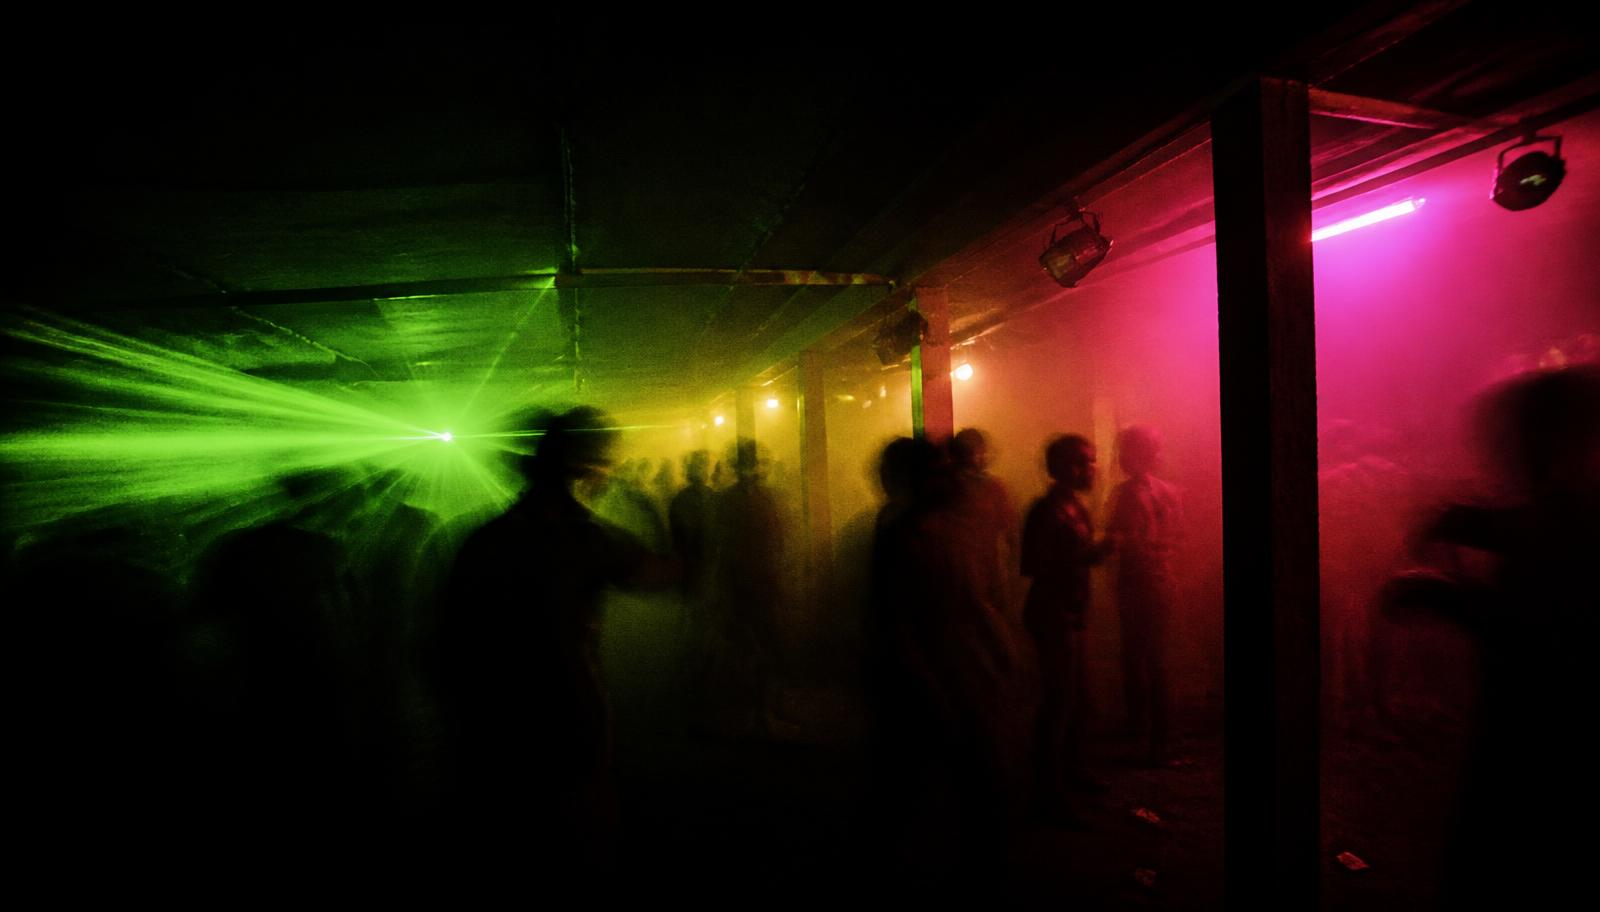
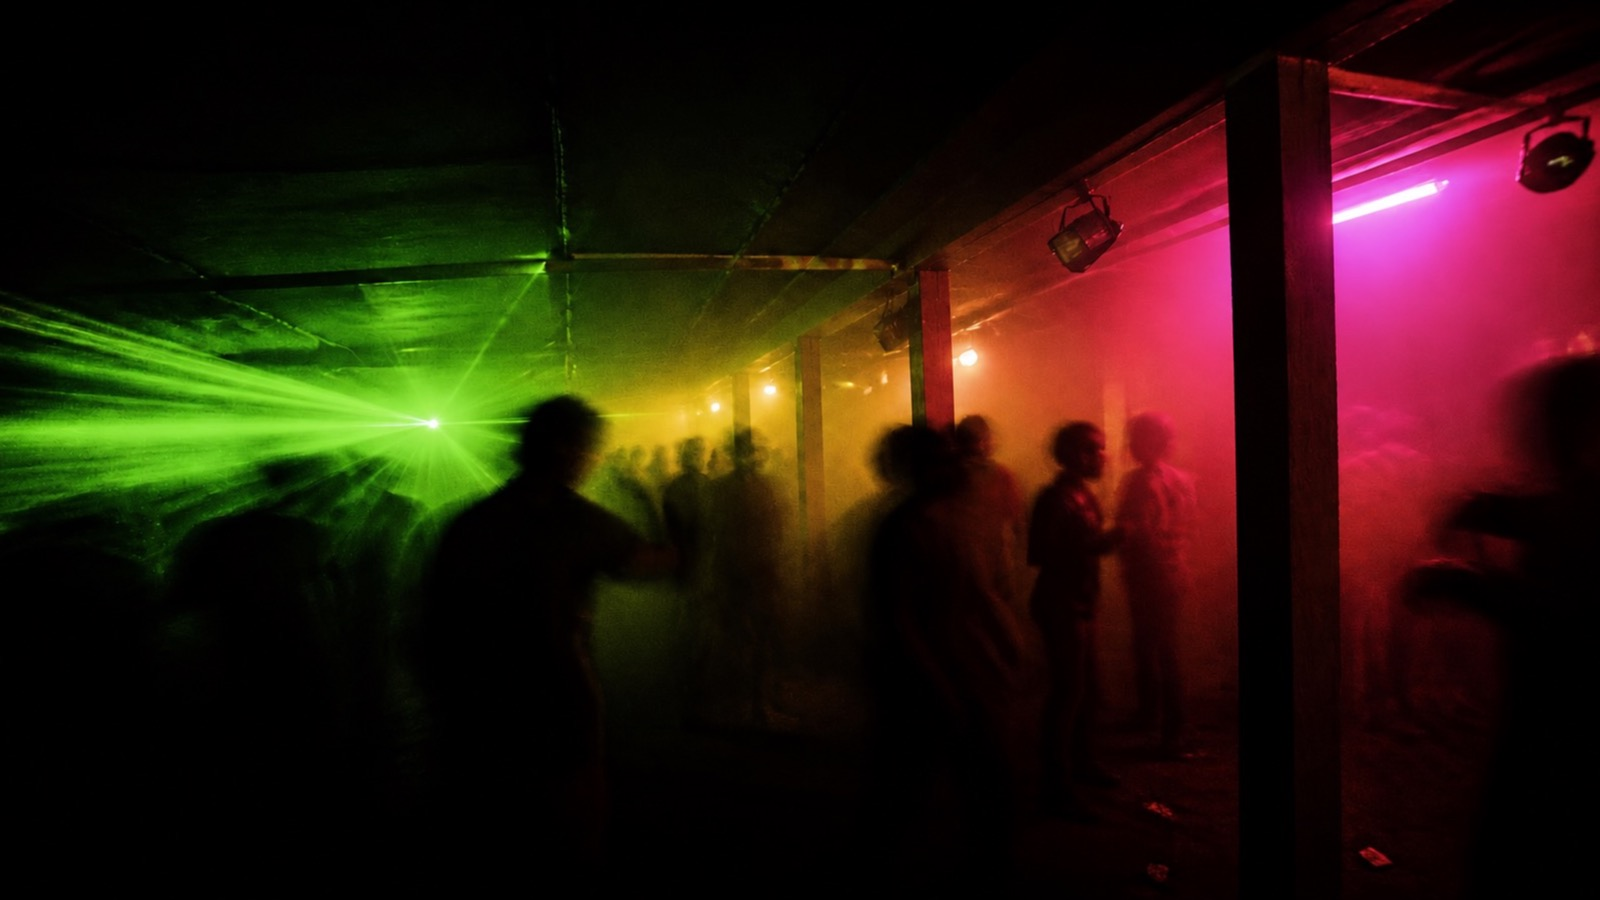
Polish Flowcrate homepage design

diff --git a/src/routes/index.tsx b/src/routes/index.tsx
@@ -7,17 +7,17 @@ import { supabase } from "@/integrations/supabase/client";
 export const Route = createFileRoute("/")({
   head: () => ({
     meta: [
-      { title: "FlowCrate" },
+      { title: "Flowcrate" },
       {
         name: "description",
         content:
-          "FlowCrate is your personal music brain—capture what you discover, organize it by mood, energy, and context, and follow the connections to find what's next.",
+          "Flowcrate is your personal music map—capture what you discover, organize it by mood, energy, and context, and follow the connections to find what's next.",
       },
-      { property: "og:title", content: "FlowCrate" },
+      { property: "og:title", content: "Flowcrate" },
       {
         property: "og:description",
         content:
-          "FlowCrate is your personal music brain—capture what you discover, organize it by mood, energy, and context, and follow the connections to find what's next.",
+          "Flowcrate is your personal music map—capture what you discover, organize it by mood, energy, and context, and follow the connections to find what's next.",
       },
       { property: "og:type", content: "website" },
       { name: "twitter:card", content: "summary" },
@@ -187,7 +187,7 @@ function Landing() {
             <span className="fc-mono fc-faint hidden sm:inline">FC—001</span>
           </Link>
           <Link to={entry} className="fc-link">
-            {signedIn ? "Open FlowCrate" : "Sign in"}
+            {signedIn ? "Open Flowcrate" : "Sign in"}
           </Link>
         </div>
       </header>
@@ -198,7 +198,7 @@ function Landing() {
             For DJs, diggers & obsessive listeners
           </p>
 
-          <h1 className="fc-display mt-8 text-[clamp(3.1rem,11.6vw,11.5rem)] sm:mt-10">
+          <h1 className="fc-display mt-8 text-[clamp(2.635rem,9.86vw,9.775rem)] sm:mt-10">
             Dig deeper.
             <br />
             Save what
@@ -210,20 +210,20 @@ function Landing() {
             <div className="flex flex-col gap-10 lg:col-span-4">
               <p className="max-w-md text-lg leading-relaxed text-[var(--fc-dim)]">
                 <span className="text-[var(--fc-paper)]">
-                  FlowCrate is your personal music brain.
+                  Flowcrate is your personal music map.
                 </span>{" "}
                 Follow the links between artists, labels, DJs and scenes, keep what you find, and
                 sort it in a way that makes sense to you.
               </p>
               <div>
                 <Link to={entry} className="fc-btn">
-                  {signedIn ? "Open FlowCrate" : "Start building your crate"}
+                  {signedIn ? "Open Flowcrate" : "Start building your crate"}
                   <span aria-hidden className="fc-btn-arrow">
                     →
                   </span>
                 </Link>
               </div>
-              <ol className="fc-rule mt-auto hidden border-t lg:block">
+              <ol className="fc-rule mt-auto hidden border-t lg:mb-16 lg:block">
                 {FLOW.map((item) => (
                   <li
                     key={item.pos}
@@ -291,7 +291,7 @@ function Landing() {
             </div>
             <p className="max-w-lg self-end text-lg leading-relaxed text-[var(--fc-dim)] lg:col-span-6 lg:col-start-7">
               Digging starts loose — a track ID from a mix, a label someone mentioned, a DJ you keep
-              coming back to. FlowCrate follows where it leads and keeps hold of what you find.
+              coming back to. Flowcrate follows where it leads and keeps hold of what you find.
             </p>
           </div>
 
@@ -438,11 +438,11 @@ function Landing() {
             <div className="flex min-w-0 flex-col gap-10 self-end lg:col-span-4">
               <p className="max-w-md leading-relaxed text-[var(--fc-dim)]">
                 Every record points somewhere else — another artist, another label, another city,
-                another scene. FlowCrate helps you keep following.
+                another scene. Flowcrate helps you keep following.
               </p>
               <div>
                 <Link to={entry} className="fc-btn">
-                  {signedIn ? "Open FlowCrate" : "Start digging"}
+                  {signedIn ? "Open Flowcrate" : "Start digging"}
                   <span aria-hidden className="fc-btn-arrow">
                     →
                   </span>
@@ -456,7 +456,7 @@ function Landing() {
       <footer className="fc-rule border-t">
         <div className="fc-mono fc-faint mx-auto flex max-w-[88rem] flex-wrap justify-between gap-3 px-5 py-6 sm:px-8">
           <span>Built for the dancefloor · everything you save is private to you</span>
-          <span>FlowCrate — independent, in active development</span>
+          <span>Flowcrate — independent, in active development</span>
         </div>
       </footer>
     </div>

diff --git a/src/routes/auth.tsx b/src/routes/auth.tsx
@@ -9,15 +9,15 @@ import { Label } from "@/components/ui/label";
 export const Route = createFileRoute("/auth")({
   head: () => ({
     meta: [
-      { title: "Sign in — FlowCrate" },
+      { title: "Sign in — Flowcrate" },
       {
         name: "description",
-        content: "Sign in to FlowCrate — your personal music brain for capturing tracks, crates, and connections.",
+        content: "Sign in to Flowcrate — your personal music brain for capturing tracks, crates, and connections.",
       },
-      { property: "og:title", content: "Sign in — FlowCrate" },
+      { property: "og:title", content: "Sign in — Flowcrate" },
       {
         property: "og:description",
-        content: "Sign in to FlowCrate — your personal music brain for capturing tracks, crates, and connections.",
+        content: "Sign in to Flowcrate — your personal music brain for capturing tracks, crates, and connections.",
       },
     ],
   }),
@@ -81,10 +81,10 @@ function AuthPage() {
     <div className="flex min-h-screen items-center justify-center px-5 py-16">
       <div className="w-full max-w-sm">
         <Link to="/" className="label-mono text-primary">
-          ← FlowCrate
+          ← Flowcrate
         </Link>
         <h1 className="mt-6 text-3xl font-bold">
-          {mode === "signin" ? "Back to your crates" : "Start your FlowCrate"}
+          {mode === "signin" ? "Back to your crates" : "Start your Flowcrate"}
         </h1>
 
         <p className="mt-2 text-sm text-muted-foreground">

diff --git a/src/routes/_authenticated/artists.index.tsx b/src/routes/_authenticated/artists.index.tsx
@@ -27,13 +27,13 @@ import { groupByName, normalizeArtistName } from "@/lib/artist-name";
 export const Route = createFileRoute("/_authenticated/artists/")({
   head: () => ({
     meta: [
-      { title: "DJs & Artists — FlowCrate" },
+      { title: "DJs & Artists — Flowcrate" },
       {
         name: "description",
         content:
           "Every DJ and artist you follow, with their real pages and a feed of their newest sets.",
       },
-      { property: "og:title", content: "DJs & Artists — FlowCrate" },
+      { property: "og:title", content: "DJs & Artists — Flowcrate" },
       {
         property: "og:description",
         content: "Your roster of DJs and artists, with links and recent sets.",

diff --git a/src/routes/__root.tsx b/src/routes/__root.tsx
@@ -75,12 +75,12 @@ export const Route = createRootRouteWithContext<{ queryClient: QueryClient }>()(
     meta: [
       { charSet: "utf-8" },
       { name: "viewport", content: "width=device-width, initial-scale=1" },
-      { title: "FlowCrate" },
+      { title: "Flowcrate" },
       {
         name: "description",
-        content: "FlowCrate is your personal music brain: tracks, crates, labels and connections.",
+        content: "Flowcrate is your personal music brain: tracks, crates, labels and connections.",
       },
-      { property: "og:title", content: "FlowCrate" },
+      { property: "og:title", content: "Flowcrate" },
       {
         property: "og:description",
         content:

diff --git a/src/routes/_authenticated/discover.tsx b/src/routes/_authenticated/discover.tsx
@@ -32,13 +32,13 @@ import type { Popularity } from "@/lib/popularity.server";
 export const Route = createFileRoute("/_authenticated/discover")({
   head: () => ({
     meta: [
-      { title: "Discover — FlowCrate" },
+      { title: "Discover — Flowcrate" },
       {
         name: "description",
         content:
           "See the tracks played most across the DJs and artists you pick, mined from their tracklists.",
       },
-      { property: "og:title", content: "Discover — FlowCrate" },
+      { property: "og:title", content: "Discover — Flowcrate" },
       {
         property: "og:description",
         content: "Most played tracks across the artists you choose to scan.",

diff --git a/src/routes/_authenticated/labels.tsx b/src/routes/_authenticated/labels.tsx
@@ -31,12 +31,12 @@ const SORTS: { value: SortKey; label: string }[] = [
 export const Route = createFileRoute("/_authenticated/labels")({
   head: () => ({
     meta: [
-      { title: "Labels & collectives — FlowCrate" },
+      { title: "Labels & collectives — Flowcrate" },
       {
         name: "description",
         content: "Follow the labels, crews and collectives behind the music you love.",
       },
-      { property: "og:title", content: "Labels & collectives — FlowCrate" },
+      { property: "og:title", content: "Labels & collectives — Flowcrate" },
       { property: "og:description", content: "The crews behind the records you keep." },
     ],
   }),

diff --git a/src/routes/_authenticated/radar.tsx b/src/routes/_authenticated/radar.tsx
@@ -13,12 +13,12 @@ import { allNamesFor, canonicalName, canonicalNameMap } from "@/lib/artist-name"
 export const Route = createFileRoute("/_authenticated/radar")({
   head: () => ({
     meta: [
-      { title: "Radar — FlowCrate" },
+      { title: "Radar — Flowcrate" },
       {
         name: "description",
         content: "The newest sets from every DJ and artist you follow, in one feed.",
       },
-      { property: "og:title", content: "Radar — FlowCrate" },
+      { property: "og:title", content: "Radar — Flowcrate" },
       {
         property: "og:description",
         content: "One chronological feed of the newest sets from the artists you follow.",

diff --git a/src/routes/_authenticated/artists.$name.tsx b/src/routes/_authenticated/artists.$name.tsx
@@ -25,12 +25,12 @@ export const Route = createFileRoute("/_authenticated/artists/$name")({
     const name = decodeURIComponent(params.name);
     return {
       meta: [
-        { title: `${name} — FlowCrate` },
+        { title: `${name} — Flowcrate` },
         {
           name: "description",
           content: `Newest sets and most played tracks from ${name}, built from set tracklists.`,
         },
-        { property: "og:title", content: `${name} — FlowCrate` },
+        { property: "og:title", content: `${name} — Flowcrate` },
         {
           property: "og:description",
           content: `Newest sets and most played tracks from ${name}.`,

diff --git a/src/routes/_authenticated/tracks.tsx b/src/routes/_authenticated/tracks.tsx
@@ -43,12 +43,12 @@ import { ImportPlaylistDialog } from "@/components/atlas/ImportPlaylistDialog";
 export const Route = createFileRoute("/_authenticated/tracks")({
   head: () => ({
     meta: [
-      { title: "Tracks — FlowCrate" },
+      { title: "Tracks — Flowcrate" },
       {
         name: "description",
         content: "Every track you've discovered: artist, label, key, BPM and mood.",
       },
-      { property: "og:title", content: "Tracks — FlowCrate" },
+      { property: "og:title", content: "Tracks — Flowcrate" },
       { property: "og:description", content: "Your saved tracks in one place." },
     ],
   }),

diff --git a/src/routes/_authenticated/crates.$crateId.tsx b/src/routes/_authenticated/crates.$crateId.tsx
@@ -17,9 +17,9 @@ import { SourceIcon } from "@/components/atlas/SourceIcon";
 export const Route = createFileRoute("/_authenticated/crates/$crateId")({
   head: () => ({
     meta: [
-      { title: "Crate — FlowCrate" },
+      { title: "Crate — Flowcrate" },
       { name: "description", content: "The tracks inside this crate, in playing order." },
-      { property: "og:title", content: "Crate — FlowCrate" },
+      { property: "og:title", content: "Crate — Flowcrate" },
       { property: "og:description", content: "The tracks inside this crate, in playing order." },
     ],
   }),

diff --git a/src/routes/_authenticated/crates.index.tsx b/src/routes/_authenticated/crates.index.tsx
@@ -22,9 +22,9 @@ import { useMoods } from "@/lib/moods";
 export const Route = createFileRoute("/_authenticated/crates/")({
   head: () => ({
     meta: [
-      { title: "Crates — FlowCrate" },
+      { title: "Crates — Flowcrate" },
       { name: "description", content: "Build crates of tracks for every mood and every room." },
-      { property: "og:title", content: "Crates — FlowCrate" },
+      { property: "og:title", content: "Crates — Flowcrate" },
       { property: "og:description", content: "Crates of tracks for every mood and every room." },
     ],
   }),

diff --git a/src/components/atlas/AppShell.tsx b/src/components/atlas/AppShell.tsx
@@ -30,7 +30,7 @@ export function AppShell({
       <header className="fc-masthead sticky top-0 z-30 border-b border-border">
         <div className="mx-auto flex max-w-[88rem] items-center gap-x-4 gap-y-2 px-3 py-3 sm:gap-x-6 sm:px-6 sm:py-4">
           <Link to="/" className="fc-wordmark shrink-0 text-primary">
-            FlowCrate
+            Flowcrate
           </Link>
           <nav className="-mx-1 flex flex-1 items-center gap-1 overflow-x-auto px-1 [scrollbar-width:none] [&::-webkit-scrollbar]:hidden">
             {NAV.map((item) => (
